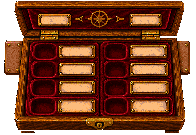
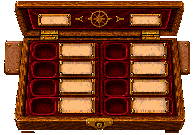
Freeze accepted case artwork, two-line typography and side-tab close control

Changed region(s): [[0.6429, 0.2963, 0.8571, 0.8593], [0.2755, 0.4148, 0.4898, 0.8593], [0.2755, 0.2963, 0.4898, 0.3852]]

diff --git a/native_virtue_case.cc b/native_virtue_case.cc
@@ -3,9 +3,11 @@
 #include <config.h>
 #endif
 #include "native_virtue_case.h"
+#include "cli_driver.h"
 #include "Gump.h"
 #include "Gump_manager.h"
 #include "Gump_button.h"
+#include "misc_buttons.h"
 #include "U7obj.h"
 #include "databuf.h"
 #include "fnames.h"
@@ -26,6 +28,8 @@
 
 namespace {
 bool installed = false;
+bool label_preview = false;
+constexpr const char* label_examples[8][2] = {{"Britain","Home"},{"LB","Castle"},{"Destard","Ent"},{"Cove","Healer"},{"Trinsic","Gate"},{"Skara","Brae"},{"Shrine","Home"},{"Camp","Home"}};
 constexpr int width = 196, height = 135;
 // Original BG shape 330 frames: yellow/red/blue/orange/green/purple/black/white.
 // Fixed columns read top to bottom: Honesty..Justice, Sacrifice..Humility.
@@ -67,23 +71,20 @@ public:
         : Gump_button(parent, -1, x, y, SF_OTHER), art(art), frame(frame), label(label) {}
     TileRect get_rect() const override {
         int sx = 0, sy = 0; local_to_screen(sx, sy);
-        return TileRect(sx, sy, frame < 0 ? 28 : 32, 12);
+        return TileRect(sx, sy, 32, 12);
     }
     bool on_widget(int mx, int my) const override {
         screen_to_local(mx, my);
-        return mx >= 0 && my >= 0 && mx < (frame < 0 ? 28 : 32) && my < (12);
+        return mx >= 0 && my >= 0 && mx < (32) && my < 12;
     }
     const char* cli_action() const override {
-        return frame < 0 ? "close" : frame == 10 ? "mark_unimplemented" : "recall_unimplemented";
+        return frame == 10 ? "mark_unimplemented" : "recall_unimplemented";
     }
-    bool is_checkmark() const override { return frame < 0; }
     bool activate(MouseButton button) override {
         if (button != MouseButton::Left) return false;
-        if (frame < 0) parent->close();
         return true; // Consume the presentation button without casting anything.
     }
     void paint() override {
-        if (frame < 0) return; // The catch is already part of the background.
         int sx = 0, sy = 0; local_to_screen(sx, sy);
         art->get_frame(frame + (is_pushed() ? 1 : 0))->paint(gwin->get_win()->get_ib8(), sx, sy);
         auto font = fontManager.get_font("TINY_BLACK_FONT");
@@ -102,14 +103,20 @@ public:
         for (int i = 0; i < 8; ++i) seated[i] = art->get_frame(i+2);
         add_elem(new Case_button(this, art.get(), 10, 38, 14, "MARK"));
         add_elem(new Case_button(this, art.get(), 12, 130, 14, "RECALL"));
-        add_elem(new Case_button(this, art.get(), -1, 86, 118, ""));
+        // Original BG checkmark frame has bottom-right hotspot (20,20).
+        add_elem(new Checkmark_button(this, 23, 68));
         set_pos();
     }
     Gump* clone(Container_game_object* cont, int initx, int inity) override {
         auto* result = new Case_gump(cont); result->set_pos(initx, inity); return result;
     }
     TileRect get_rect() const override { return TileRect(x, y, width, height); }
-    bool has_point(int sx, int sy) const override { return background->has_point(sx-x, sy-y); }
+    bool has_point(int sx, int sy) const override {
+        if (background->has_point(sx-x, sy-y)) return true;
+        // The checkmark can extend over the transparent edge of the left leather side tab.
+        for (auto* elem : elems) if (elem->on_widget(sx, sy)) return true;
+        return false;
+    }
     const char* get_click_name() const override { return "Virtue Stone Case"; }
     bool add(Game_object* obj, int, int, int, int, bool dont_check, bool) override {
         return obj && container->add(obj, dont_check, false);
@@ -117,6 +124,16 @@ public:
     void paint() override {
         background->paint(gwin->get_win()->get_ib8(), x, y);
         paint_elems();
+        if (cli_enabled && label_preview) {
+            auto font = fontManager.get_font("TINY_BLACK_FONT");
+            for (int i=0; i<8; ++i) for (int line=0; line<2; ++line) {
+                const char* text = label_examples[i][line];
+                const int text_width = font->get_text_width(text);
+                if (text_width <= 32)
+                    font->paint_text(gwin->get_win()->get_ib8(), text,
+                        x+61+71*(i/4)+(32-text_width)/2, y+45+18*(i%4)+6*line+4-font->get_text_baseline());
+            }
+        }
         Object_iterator next(container->get_objects());
         while (auto* object = next.get_next()) {
             const int slot = slot_for(object);
@@ -182,5 +199,11 @@ void Virtue_case::open(Container_game_object* cont) {
     auto* manager = Game_window::get_instance()->get_gump_man();
     if (!is_case(cont) || manager->find_gump(cont, -1)) return;
     manager->add_gump(new Case_gump(cont));
+    Game_window::get_instance()->set_all_dirty();
+}
+
+void Virtue_case::preview_labels_for_test() {
+    if (!cli_enabled) return;
+    label_preview = true;
     Game_window::get_instance()->set_all_dirty();
 }

diff --git a/tools/virtue_case/presentation.py b/tools/virtue_case/presentation.py
@@ -18,6 +18,7 @@ p = argparse.ArgumentParser(description=__doc__)
 p.add_argument('--run', required=True)
 p.add_argument('--checkpoint', type=Path, required=True)
 p.add_argument('--scale', type=int, choices=(1, 2, 3), default=1)
+p.add_argument('--labels', action='store_true', help='Explicit synthetic two-line label visual trial')
 p.add_argument('--ultrawide', action='store_true')
 p.add_argument('--mod', choices=('', 'Keyring'), default='')
 a = p.parse_args()
@@ -93,6 +94,10 @@ try:
     show(case, avatar)
     gump = next(g for g in d.state()['gumps'] if 'Case_gump' in g['type'])
     events.append(dict(case_gump=gump))
+    if a.labels:
+        do('screenshot', full=True)
+        shutil.copyfile(d.run/'screenshot.png', d.run/'case-engine-blank.png')
+        do('test_virtue_case_labels')
     do('screenshot', full=True)
     shutil.copyfile(d.run/'screenshot.png', d.run/'case-engine.png')
     # Inspect actual rendered pixels; configuration alone does not prove scale.
@@ -124,14 +129,30 @@ try:
                     pos = ((oy+y*factor+dy)*width+ox+x*factor+dx)*channels
                     if pixels[pos:pos+channels] != pixel: exact = False
     check('rendered case pixels are exact integer nearest-neighbor blocks', exact)
+    if a.labels:
+        bw,bh,bmode,blank,_,_ = read_png(d.run/'case-engine-blank.png')
+        check('blank comparison frame matches renderer format', (bw,bh,bmode)==(width,height,mode))
+        for slot in json.loads(manifest_path.read_text())['slots']:
+            tx,ty,tw,th = slot['label_text_safe_rect']
+            ink_changes = 0
+            for py in range(oy+ty*factor,oy+(ty+th)*factor):
+                for px in range(ox+tx*factor,ox+(tx+tw)*factor):
+                    pos=(py*width+px)*channels
+                    if pixels[pos:pos+3] == bytes([0,0,0]) and blank[pos:pos+3] != pixels[pos:pos+3]: ink_changes += 1
+            check('native text visibly painted in '+slot['virtue']+' label', ink_changes>=10*factor*factor)
+
     controls = [c for c in do('controls')['controls'] if c['gump_id']==gump['id']]
     check('three physical controls exposed', {c['action'] for c in controls}=={'close','mark_unimplemented','recall_unimplemented'})
+    close_control = next(c for c in controls if c['action']=='close')
+    check('close control is on four-grommet leather side tab', gump['x']+3 <= close_control['x'] <= gump['x']+23 and gump['y']+47 <= close_control['y'] <= gump['y']+69)
+    check('bottom catch is decorative', do('control_at', x=gump['x']+100, y=gump['y']+124)['action']!='close')
+
     before = {o['ref']:(o['frame'],o['stone_target']) for o in inventory(case)}
     for action in ('mark_unimplemented','recall_unimplemented'):
         do('activate_control', id=next(c['id'] for c in controls if c['action']==action))
         check(action+' preserves all stone identities/targets', {o['ref']:(o['frame'],o['stone_target']) for o in inventory(case)}==before)
     do('activate_control', id=next(c['id'] for c in controls if c['action']=='close'))
-    check('brass catch closes specialized gump', not any('Case_gump' in g['type'] for g in d.state()['gumps']))
+    check('side-tab checkmark closes specialized gump', not any('Case_gump' in g['type'] for g in d.state()['gumps']))
     show(case, avatar)
     check('case reopens with identical contents', {o['ref']:(o['frame'],o['stone_target']) for o in inventory(case)}==before)
     while d.state()['input_owner']=='gump': do('dismiss')

diff --git a/tools/virtue_case/compact_art.py b/tools/virtue_case/compact_art.py
@@ -47,6 +47,14 @@ for i,rgb in enumerate(sample):
     if i in outside: bg.append(255); continue
     if rgb not in cache: cache[rgb]=min(range(224),key=lambda k:sum((colors[k][c]-rgb[c])**2 for c in range(3)))
     bg.append(cache[rgb])
+# Two-line font trial: stretch each original framed plate from12 to16 pixels.
+original_bg=bytes(bg)
+for col in range(2):
+    for row in range(4):
+        px=59+71*col; sy=46+18*row; dy=43+18*row
+        for yy in range(16):
+            source_y=sy+min(11,int((yy+.5)*12/16))
+            bg[(dy+yy)*width+px:(dy+yy)*width+px+36]=original_bg[source_y*width+px:source_y*width+px+36]
 write_png(art/'open_case.png',width,height,bg,palette)
 source_path=art/'source_case_reference.png'
 if a.source.resolve()!=source_path.resolve(): shutil.copyfile(a.source,source_path)
@@ -76,11 +84,11 @@ for asset in manifest['assets']:
             pressed[32:]=normal[:-32]; pressed[:32]=bytes([147])*32
         write_png(art/asset['filename'],32,12,pressed,palette)
         asset.update(width=32,height=12,position_relative_to_gump=[x,y])
-manifest.update(canvas=[196,135],status='Compact196x135 owner image integration; supersedes320x200 layout',lid=[14,8,168,22],wood_border=3,velvet=[26,41,148,75],compass_safe=[74,10,48,18],hinges=[[40,30,18,10],[141,30,18,10]],button_hits={'mark':[38,14,32,12],'recall':[130,14,32,12]},button_text={'mark_normal':[43,17],'mark_pressed':[43,18],'recall_normal':[133,17],'recall_pressed':[133,18]},closing_catch_and_hit=[86,118,28,12],source_commit='da74f56074b6ae4c1c509ec3ab76a924c3e261dc')
+manifest.update(canvas=[196,135],status='Compact196x135 owner image integration; supersedes320x200 layout',lid=[14,8,168,22],wood_border=3,velvet=[26,41,148,75],compass_safe=[74,10,48,18],hinges=[[40,30,18,10],[141,30,18,10]],button_hits={'mark':[38,14,32,12],'recall':[130,14,32,12]},button_text={'mark_normal':[43,17],'mark_pressed':[43,18],'recall_normal':[133,17],'recall_pressed':[133,18]},closing_catch_and_hit=None,decorative_catch=[86,118,28,12],close_button={'resource':'BG gumps/check (shape2)','normal_frame':0,'pressed_frame':1,'anchor':[23,68],'rect':[3,48,21,21]},source_commit='da74f56074b6ae4c1c509ec3ab76a924c3e261dc')
 for i,s in enumerate(manifest['slots']):
     c=i//4; r=i%4
-    s.update(compartment=[30+71*c,42+18*r,67,18],recess=[33+71*c,44+18*r,23,16],stone_canvas=[38+71*c,45+18*r,13,15],stone_hotspot=[6,7],stone_render_anchor=[44+71*c,52+18*r],label_rect=[59+71*c,46+18*r,36,12],label_text_origin=[61+71*c,49+18*r],label_text_safe_rect=[61+71*c,49+18*r,32,6],label_hit=[59+71*c,46+18*r,36,12])
-manifest['label_rules'].update(font='TINY_BLACK_FONT, resource shape4, lead0',text_height=6,baseline=4,max_width=32,recommended_character_cap=6)
+    s.update(compartment=[30+71*c,42+18*r,67,18],recess=[33+71*c,44+18*r,23,16],stone_canvas=[38+71*c,45+18*r,13,15],stone_hotspot=[6,7],stone_render_anchor=[44+71*c,52+18*r],label_rect=[59+71*c,43+18*r,36,16],label_text_origin=[61+71*c,45+18*r],label_text_safe_rect=[61+71*c,45+18*r,32,12],label_hit=[59+71*c,43+18*r,36,16])
+manifest['label_rules'].update(font='TINY_BLACK_FONT, resource shape4, lead0',text_height=6,baseline=4,max_width=32,recommended_character_cap=12,lines=2)
 (art/'asset_manifest.json').write_text(json.dumps(manifest,indent=2)+'\n')
 frames=[]
 for asset in manifest['assets']:

diff --git a/tools/test_cli/driver.py b/tools/test_cli/driver.py
@@ -144,7 +144,7 @@ class Driver:
   if op=='transfer_item':
    return self.raw(op,int(c['ref']),int(c['destination']),int(c['x']),int(c['y'])) if 'x' in c else self.raw(op,int(c['ref']),int(c['destination']))
   if op=='test_stall':return self.raw(op,int(c['milliseconds']))
-  if op in ('test_exposure','test_orb_chart_item','test_virtue_case','test_jawbone_items'):return self.raw(op)
+  if op in ('test_exposure','test_orb_chart_item','test_virtue_case','test_virtue_case_labels','test_jawbone_items'):return self.raw(op)
   if op=='test_equipment':return self.raw(op,int(c['kind']))
   if op=='test_stale_event_metadata':return self.raw(op,int(c['ref']))
   if op=='test_calendar':return self.raw(op,int(c['day']),int(c['hour']),int(c['minute']),int(c.get('phase',0)))

diff --git a/cli_driver.cc b/cli_driver.cc
@@ -325,7 +325,7 @@ namespace {
 			max = 2;
 		} else if (
 				op != "state" && op != "ui_state" && op != "exit" && op != "continue" && op != "dismiss" && op != "combat"
-				&& op != "test_exposure" && op != "test_orb_chart_item" && op != "test_virtue_case" && op != "test_jawbone_items" && op != "wait_eligibility" && op != "controls" && op != "screenshot" && op != "quit_prompt" && op != "movement_status") {
+				&& op != "test_exposure" && op != "test_orb_chart_item" && op != "test_virtue_case" && op != "test_virtue_case_labels" && op != "test_jawbone_items" && op != "wait_eligibility" && op != "controls" && op != "screenshot" && op != "quit_prompt" && op != "movement_status") {
 			throw std::runtime_error("unknown_command");
 		}
 		std::vector<int> args;

diff --git a/cli_world.cc b/cli_world.cc
@@ -263,6 +263,11 @@ std::string cli_world(int sequence, const std::string& op, int x, int y, std::is
         return "\"category\":\"test_setup\",\"synthetic_jawbone_items\":true,\"jawbone\":"
             + describe(jawbone.get()) + ",\"tooth\":" + describe(tooth.get()) + ",\"backpack\":" + describe(container);
     }
+    if (op == "test_virtue_case_labels") {
+        if (!GAME_BG || input) throw std::runtime_error("case_label_preview_requires_BG");
+        Virtue_case::preview_labels_for_test();
+        return "\"category\":\"test_setup\",\"synthetic_label_preview\":true";
+    }
     if (op == "test_virtue_case") {
         player_ready(input);
         if (!GAME_BG || a->find_item(Virtue_case::shape, c_any_qual, c_any_framenum))

diff --git a/native_virtue_case.h b/native_virtue_case.h
@@ -10,4 +10,6 @@ bool is_case(const Game_object* object);
 bool accepts(const Container_game_object* container, const Game_object* object);
 void seat(Container_game_object* container, Game_object* object);
 void open(Container_game_object* container);
+// Explicit unified-CLI visual trial only; never stored in saves.
+void preview_labels_for_test();
 }

diff --git a/docs/test_cli_protocol.md b/docs/test_cli_protocol.md
@@ -281,3 +281,12 @@ Object observations include `gump_tx/gump_ty`; real Virtue Stones also expose
 read-only `stone_target: {x,y,z}` and `stone_target_map`. References become stale
 after world replacement as before. None of these test commands is active in
 normal gameplay.
+
+### Native case label visual trial
+
+`test_virtue_case_labels` (zero arguments) explicitly enables synthetic two-line
+example labels for native BG cases in the current CLI process. It returns
+`synthetic_label_preview:true`, changes no object/quest data or save format,
+and does not implement editing or persistence. Normal gameplay never enables
+this preview. Use `tools/virtue_case/presentation.py --labels` with a disposable
+case fixture checkpoint for an actual renderer capture.
